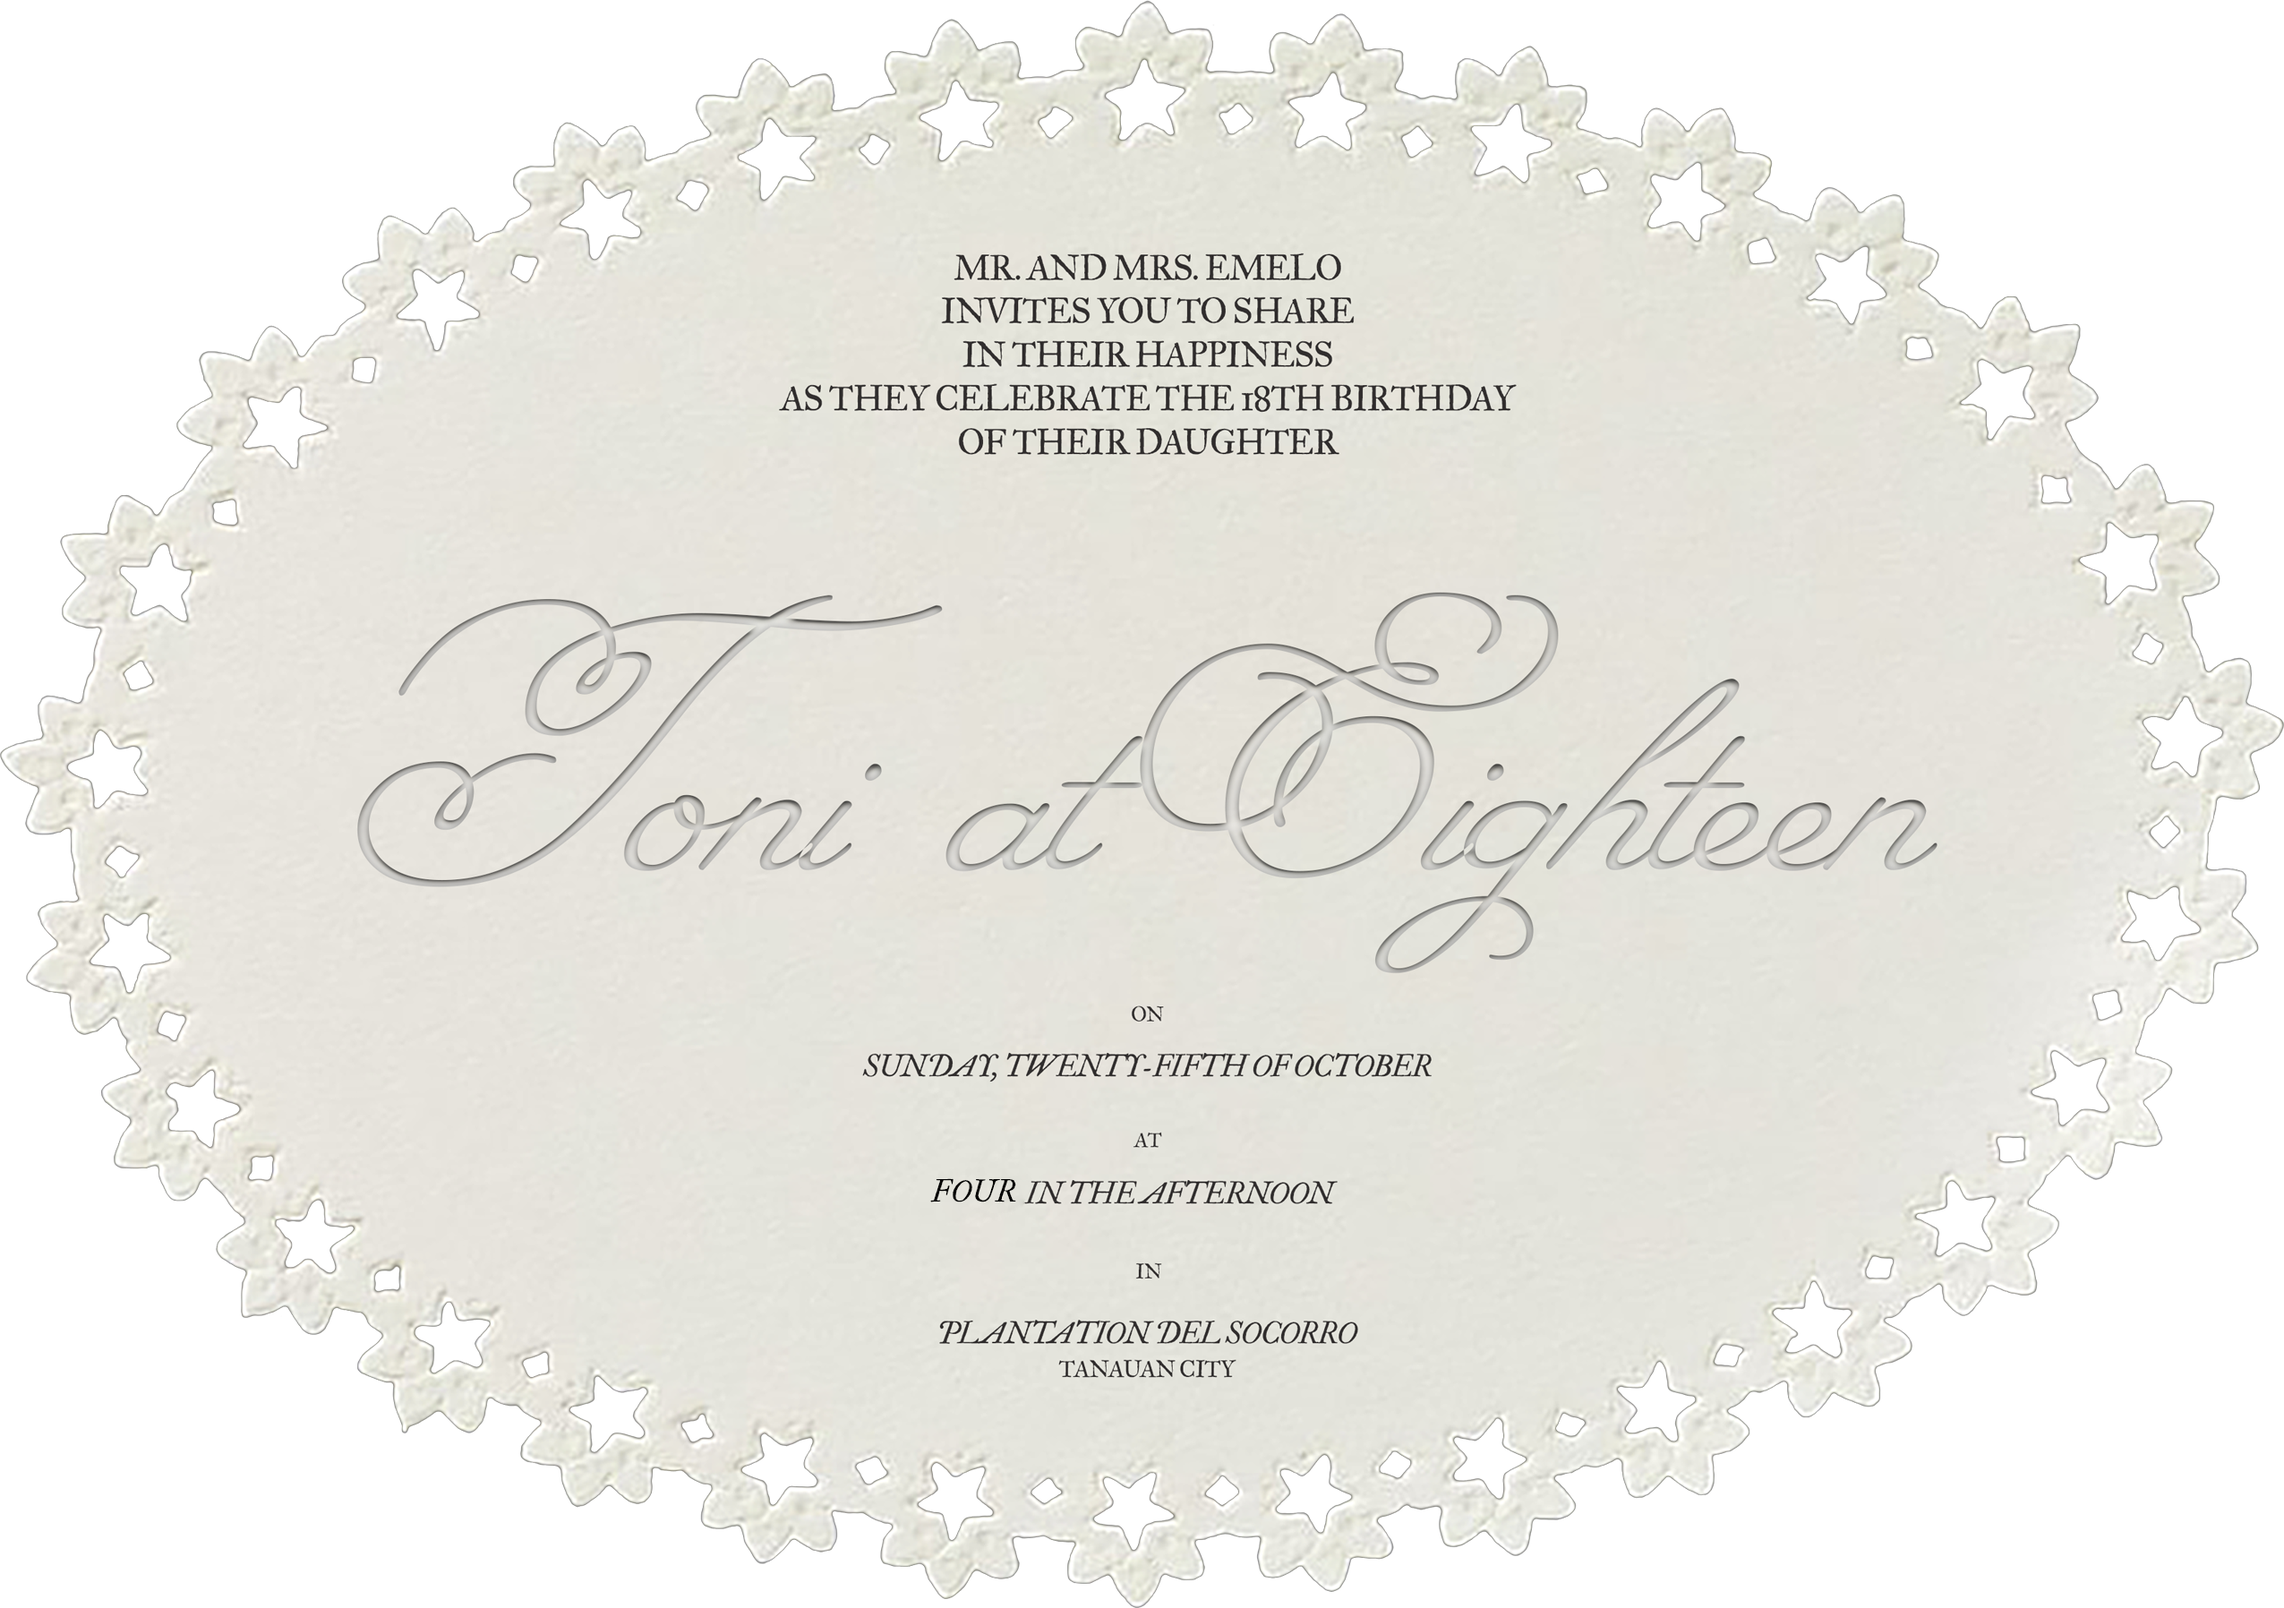
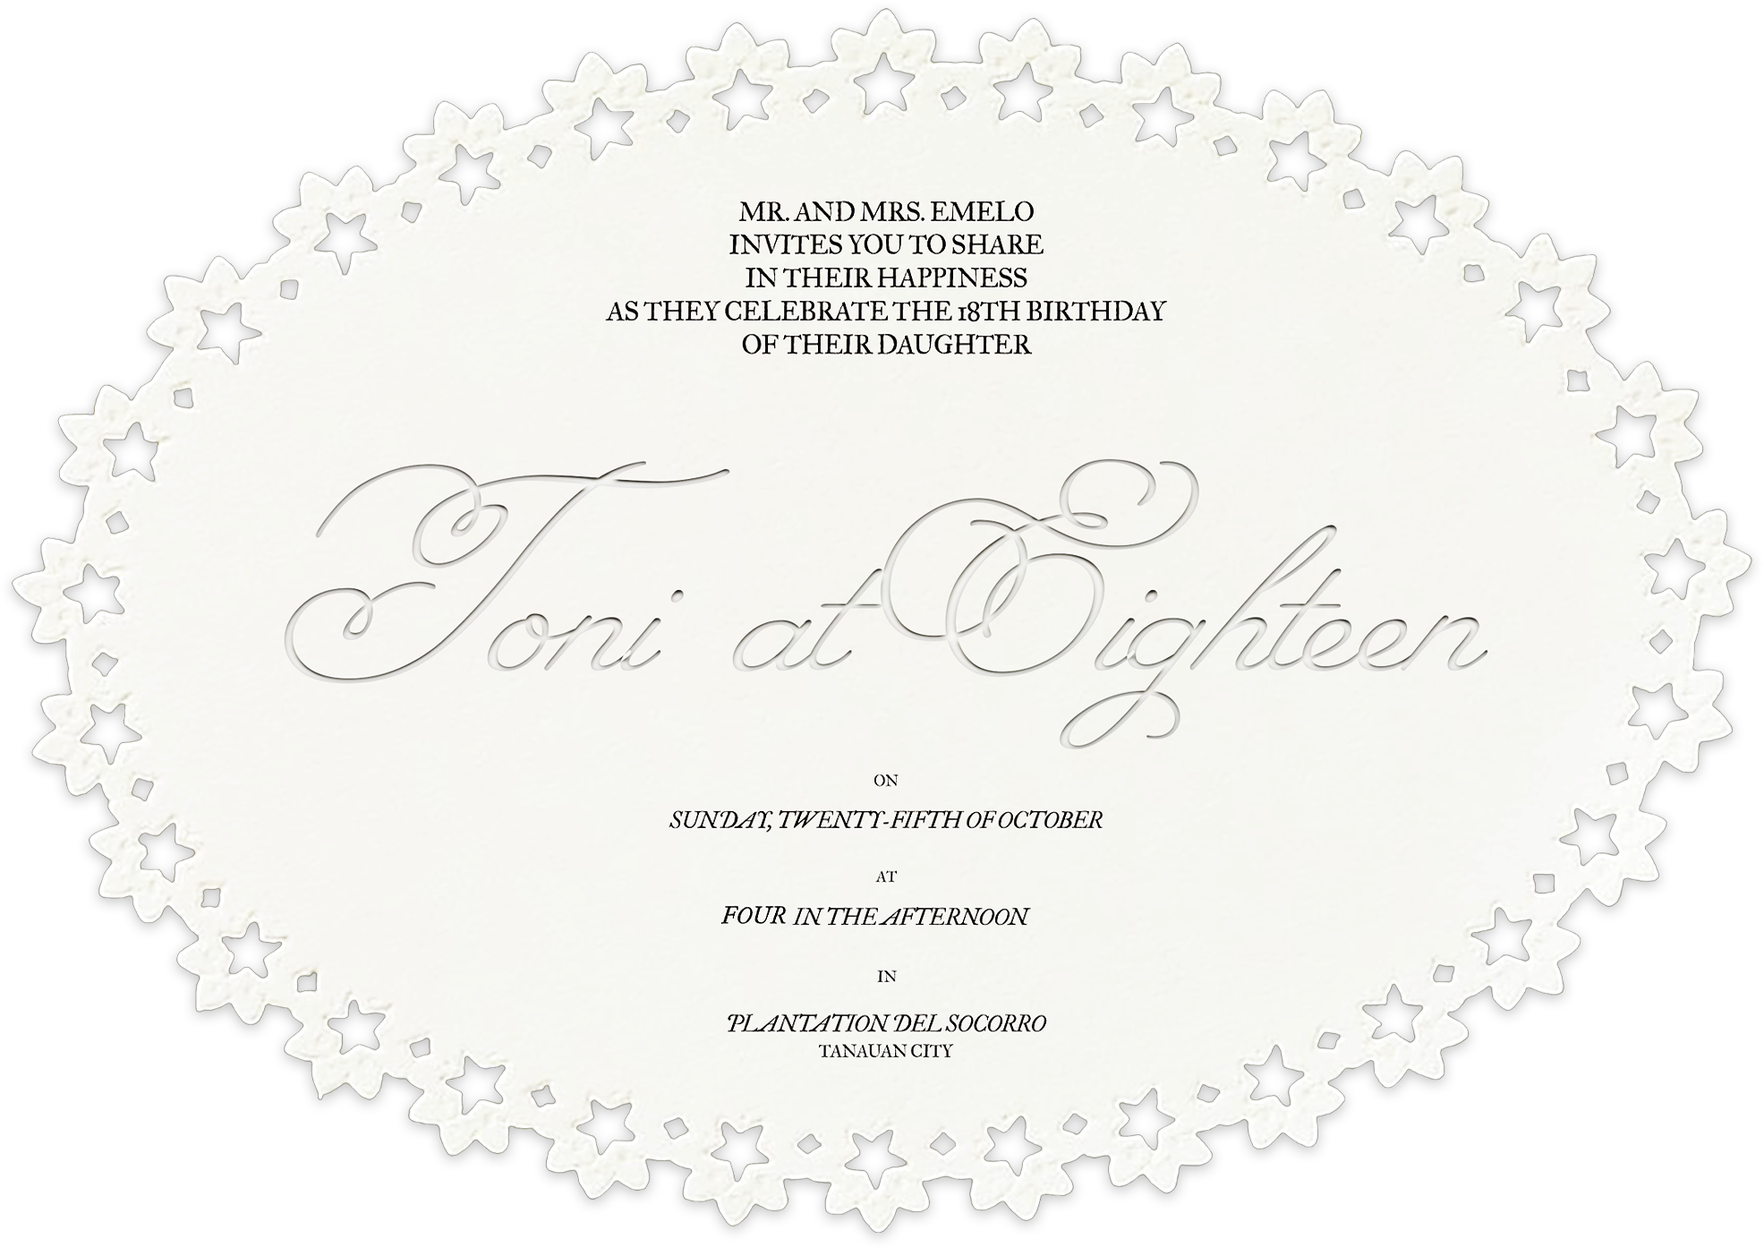
new files

diff --git a/index.html b/index.html
@@ -28,7 +28,7 @@
             background-repeat: no-repeat;
         }
 
-        /* Header Logo Styling (No animation) */
+        /* Header Logo Styling */
         .hero-header {
             position: absolute;
             top: 30px;      
@@ -51,7 +51,6 @@
             pointer-events: none;
         }
 
-        /* Keyframe animation for the fancy scale-out/fade-in pop effect */
         @keyframes fancyPopIn {
             0% {
                 opacity: 0;
@@ -66,7 +65,6 @@
             }
         }
 
-        /* Individual Image Positioning, Sizing, & Animations in Order */
         .img-you {
             position: absolute;
             top: 46%;       
@@ -97,28 +95,214 @@
             animation: fancyPopIn 1.2s cubic-bezier(0.175, 0.885, 0.32, 1.275) 1.5s forwards; 
         }
 
-        /* Second Section (Scrollable Invitation Details) */
+        /* Transition Divider Graphic (header.png) */
+        .section-divider {
+            position: absolute;
+            top: 905px;
+            left: 50%;
+            transform: translateX(-50%);
+            width: 600px; 
+            height: auto;
+            z-index: 10;
+            opacity: 0;
+            transform: translateX(-50%) translateY(30px);
+            transition: opacity 1.2s ease, transform 1.2s ease;
+        }
+
+        .section-divider.visible {
+            opacity: 1;
+            transform: translateX(-50%) translateY(0);
+        }
+
+        /* Second Section */
         .details-section {
+            position: relative;
             width: 100%;
             min-height: 100vh;
-            background-color: #faf9f5;
             display: flex;
             justify-content: center;
             align-items: center;
             padding: 80px 20px;
+            overflow: hidden;
+        }
+
+        /* bginvi.png background with scroll transition */
+        .details-section::before {
+            content: "";
+            position: absolute;
+            top: 0;
+            left: 0;
+            width: 100%;
+            height: 100%;
+            background-image: url('bginvi.png');
+            background-size: 80% auto;
+            background-position: center;
+            background-repeat: no-repeat;
+            z-index: 2; /* Sits above photos, below invi card */
+            
+            opacity: 0;
+            transform: scale(0.94);
+            transition: opacity 1.6s cubic-bezier(0.165, 0.84, 0.44, 1), 
+                        transform 1.6s cubic-bezier(0.165, 0.84, 0.44, 1);
+        }
+
+        .details-section.visible::before {
+            opacity: 1;
+            transform: scale(1);
         }
 
         .details-container {
+            position: relative;
             width: 100%;
-            max-width: 800px; /* Adjust max-width to make the invitation card bigger/smaller */
+            max-width: 900px; 
             text-align: center;
+            z-index: 3; /* Top layer for the main invitation card */
         }
 
-        .img-invi {
+        /* ==========================================
+           LAP-DISSOLVE SLIDESHOW CONTAINER
+           ========================================== */
+        .debutant-photo-wrapper {
+      position: absolute;
+            z-index: 1; 
+            
+            top: 380px;       /* Adjust to move the frame UP or DOWN */
+            right: 230px;     /* Adjust to move the frame LEFT or RIGHT */
+            
+            width: 650px;     /* <-- ADJUST FRAME WIDTH HERE */
+            height: 500px;    /* <-- ADJUST FRAME HEIGHT HERE */
+            
+            overflow: hidden; 
+            opacity: 0;
+            transform: scale(0.9);
+            transition: opacity 1.4s ease 0.5s, transform 1.4s ease 0.5s;
+        }
+
+        .details-section.visible .debutant-photo-wrapper {
+            opacity: 1;
+            transform: scale(1);
+        }
+
+        /* Individual Slides stacked on top of each other for cross-fading */
+        .debutant-photo-wrapper img {
+         position: absolute;
+            top: 0;
+            left: 0;
             width: 100%;
+            height: 100%;
+            
+            object-fit: cover;        
+            transform: scale(0.9);    /* <-- Change this: 0.8 makes the photo 80% size, 1.2 makes it 120% */
+            transform-origin: center;
+
+            object-position: 50% 20%;
+            
+            opacity: 0;
+            transition: opacity 1.5s ease-in-out;
+        }
+
+        /* Active slide becomes fully visible */
+        .debutant-photo-wrapper img.active {
+            opacity: 1;
+        }
+
+        /* Magical Scroll-Reveal Animation for invi.png */
+        .img-invi {
+            width: 100%;       
+            max-width: 610px;  
             height: auto;
             display: block;
             margin: 0 auto;
+            position: relative; 
+            top: 130px;           
+            left: -300px;          
+            
+            opacity: 0;
+            transform: translateY(50px) scale(0.95);
+            transition: opacity 1.4s cubic-bezier(0.165, 0.84, 0.44, 1) 0.3s, 
+                        transform 1.4s cubic-bezier(0.165, 0.84, 0.44, 1) 0.3s,
+                        filter 0.4s ease;
+            cursor: pointer;
+            filter: drop-shadow(0px 10px 20px rgba(0, 0, 0, 0.15));
+        }
+
+        .img-invi.visible {
+            opacity: 1;
+            transform: translateY(0) scale(1);
+        }
+
+        .img-invi.visible:hover {
+            transform: translateY(-6px) scale(1.02);
+            filter: drop-shadow(0px 20px 30px rgba(212, 175, 55, 0.35));
+        }
+
+        /* Unique Slow Lightbox Modal Transition */
+        .modal-overlay {
+            position: fixed;
+            top: 0;
+            left: 0;
+            width: 100%;
+            height: 100%;
+            background-color: rgba(0, 0, 0, 0); 
+            z-index: 9999;
+            display: flex;
+            justify-content: center;
+            align-items: center;
+            padding: 20px;
+            pointer-events: none; 
+            transition: background-color 0.8s cubic-bezier(0.165, 0.84, 0.44, 1), backdrop-filter 0.8s ease;
+            backdrop-filter: blur(0px);
+        }
+
+        .modal-overlay.active {
+            background-color: rgba(0, 0, 0, 0.85); 
+            backdrop-filter: blur(6px);
+            pointer-events: auto; 
+        }
+
+        .modal-content {
+            position: relative;
+            max-width: 85%;
+            max-height: 85vh;
+            opacity: 0;
+            transform: scale(0.85) translateY(20px); 
+            transition: opacity 0.8s cubic-bezier(0.165, 0.84, 0.44, 1), 
+                        transform 0.8s cubic-bezier(0.165, 0.84, 0.44, 1);
+        }
+
+        .modal-overlay.active .modal-content {
+            opacity: 1;
+            transform: scale(1) translateY(0); 
+        }
+
+        .modal-content img {
+            width: 100%;
+            height: auto;
+            max-height: 85vh;
+            display: block;
+            border-radius: 0px; 
+            box-shadow: none;   
+            background: transparent;
+        }
+
+        .modal-close {
+            position: absolute;
+            top: -45px;
+            right: 0;
+            color: #fff;
+            font-size: 38px;
+            font-weight: 200;
+            cursor: pointer;
+            background: none;
+            border: none;
+            font-family: serif;
+            opacity: 0.8;
+            transition: opacity 0.3s, color 0.3s;
+        }
+
+        .modal-close:hover {
+            opacity: 1;
+            color: #d4af37;
         }
     </style>
 </head>
@@ -133,14 +317,81 @@
             <img src="are.png" alt="are" class="img-are">
             <img src="invited.png" alt="invited" class="img-invited">
         </div>
+
+        <img src="header.png" alt="Divider Floral" class="section-divider" id="dividerGraphic">
     </section>
 
-    <!-- SECTION 2: Invitation Details (invi.png) -->
-    <section class="details-section">
+    <!-- SECTION 2: Invitation Details -->
+    <section class="details-section" id="detailsSection">
+        
+        <!-- Debutante Photo Slideshow (Multiple Photos with Lap-Dissolve) -->
+        <div class="debutant-photo-wrapper">
+            <img src="photo1.jpg" alt="Debutant Photo 1" class="active">
+            <img src="photo2.jpg" alt="Debutant Photo 2">
+            <img src="photo3.jpg" alt="Debutant Photo 3">
+            <img src="photo4.jpg" alt="Debutant Photo 4">
+            <img src="photo5.jpg" alt="Debutant Photo 5">
+            <!-- Add more photos here easily: <img src="photo3.png" alt="Debutant Photo 3"> -->
+        </div>
+
         <div class="details-container">
-            <img src="invi.png" alt="Invitation Details" class="img-invi">
+            <img src="invi.png" alt="Invitation Details" class="img-invi" id="inviCard" onclick="openModal()">
         </div>
     </section>
+
+    <!-- Fullscreen Lightbox Modal -->
+    <div id="inviModal" class="modal-overlay" onclick="closeModal()">
+        <div class="modal-content" onclick="event.stopPropagation()">
+            <button class="modal-close" onclick="closeModal()">&times;</button>
+            <img src="invi.png" alt="Full Invitation View">
+        </div>
+    </div>
+
+    <!-- JavaScript for Scroll-Reveal & Lap-Dissolve Slideshow -->
+    <script>
+        const observerOptions = {
+            root: null,
+            threshold: 0.15
+        };
+
+        const observer = new IntersectionObserver((entries, observer) => {
+            entries.forEach(entry => {
+                if (entry.isIntersecting) {
+                    entry.target.classList.add('visible');
+                }
+            });
+        }, observerOptions);
+
+        observer.observe(document.getElementById('dividerGraphic'));
+        observer.observe(document.getElementById('detailsSection'));
+        observer.observe(document.getElementById('inviCard'));
+
+        // Lightbox Modal Logic
+        function openModal() {
+            const modal = document.getElementById('inviModal');
+            modal.classList.add('active');
+            document.body.style.overflow = 'hidden';
+        }
+
+        function closeModal() {
+            const modal = document.getElementById('inviModal');
+            modal.classList.remove('active');
+            document.body.style.overflow = 'auto';
+        }
+
+        // Lap-Dissolve Slideshow Automation
+        let currentSlide = 0;
+        const slides = document.querySelectorAll('.debutant-photo-wrapper img');
+        
+        function nextSlide() {
+            slides[currentSlide].classList.remove('active');
+            currentSlide = (currentSlide + 1) % slides.length;
+            slides[currentSlide].classList.add('active');
+        }
+
+        // Changes photo every 3.5 seconds with a smooth cross-fade
+        setInterval(nextSlide, 3500);
+    </script>
 
 </body>
 </html>
